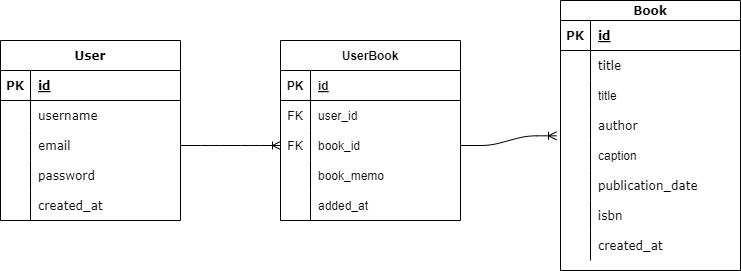
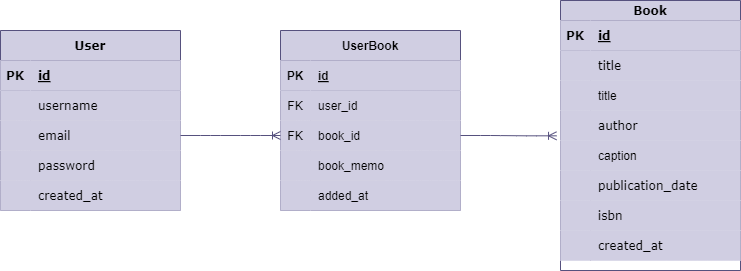
fix ER

diff --git a/README.md b/README.md
@@ -1,4 +1,4 @@
 # lotta-backend
 
 ## ER図
-![ER図](./docs/lotta_ER.png)
+![ER図](./docs/lotta_ER.svg)
